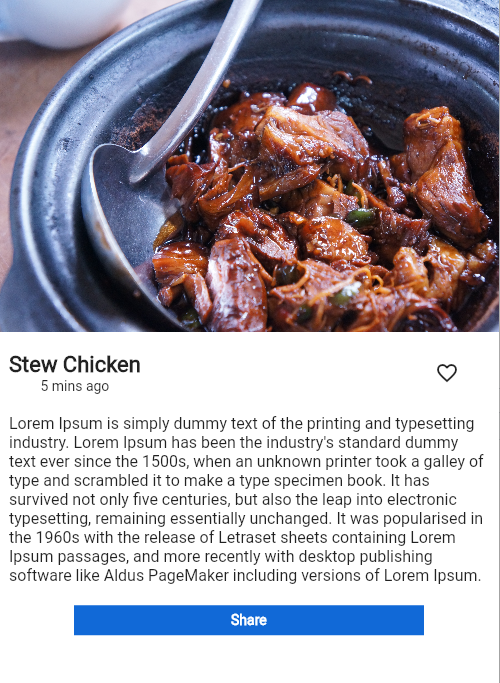
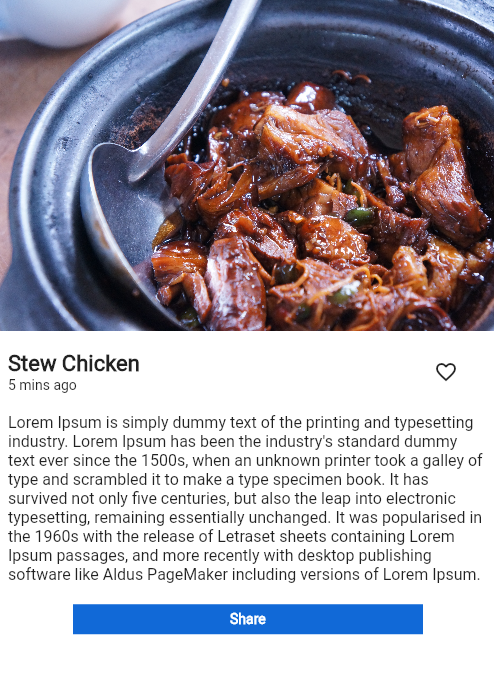
UI Design

diff --git a/ui_design/lib/main.dart b/ui_design/lib/main.dart
@@ -1,5 +1,5 @@
 import 'package:flutter/material.dart';
-import 'package:ui_design/screens/practice_10.dart';
+import 'package:ui_design/screens/practice_15.dart';
 
 void main() {
   runApp(const MyApp());
@@ -14,7 +14,7 @@ class MyApp extends StatelessWidget {
     return MaterialApp(
       debugShowCheckedModeBanner: false,
       title: 'UI - Design Task',
-      home: const Practice10(),
+      home: const Practice15(),
     );
   }
 }

diff --git a/ui_design/lib/screens/practice_15.dart b/ui_design/lib/screens/practice_15.dart
@@ -26,6 +26,7 @@ class Practice15 extends StatelessWidget {
                     margin: const EdgeInsets.fromLTRB(10, 20, 0, 10),
                     child: Column(
                       mainAxisAlignment: MainAxisAlignment.start,
+                      crossAxisAlignment: CrossAxisAlignment.start,
                       children: const [
                         Text(
                           'Stew Chicken',
